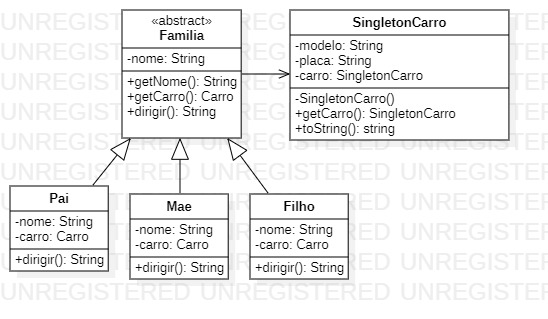
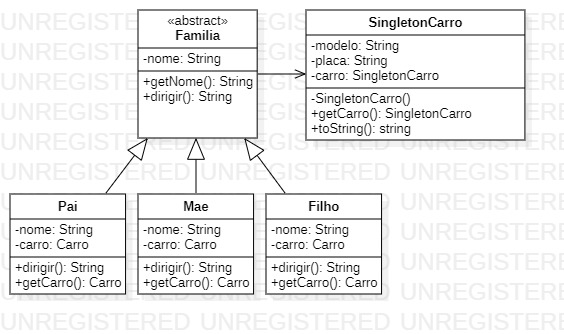
Creating class and relationship

Changed region(s): [[0.0, 0.0, 0.9307, 0.9028]]

diff --git a/Creational Patterns/Singleton/Singleton/src/designpatterns/singleton/SingletonCarro.java b/Creational Patterns/Singleton/Singleton/src/designpatterns/singleton/SingletonCarro.java
@@ -1,0 +1,18 @@
+package designpatterns.singleton;
+
+public class SingletonCarro {
+
+    private String modelo;
+    private String placa;
+    private static SingletonCarro carro;
+
+    private SingletonCarro(String modelo, String placa) {
+        this.modelo = modelo;
+        this.placa = placa;
+    }
+
+    public static SingletonCarro getCarro(){
+        if(carro == null) return new SingletonCarro("HB20s", "JKL0305");
+        return carro;
+    }
+}

diff --git a/Creational Patterns/Singleton/Singleton/src/designpatterns/Main.java b/Creational Patterns/Singleton/Singleton/src/designpatterns/Main.java
@@ -1,7 +1,15 @@
 package designpatterns;
 
+import designpatterns.singleton.Filho;
+import designpatterns.singleton.Mae;
+import designpatterns.singleton.Pai;
+
 public class Main {
     public static void main(String[] args) {
-        System.out.println("Hello world!");
+        Pai pai = new Pai("Roberto");
+        Mae mae = new Mae("Marta");
+        Filho filho = new Filho("Roberto Junior");
+
+        pai.setNome();
     }
 }

diff --git a/Creational Patterns/Singleton/Singleton/src/designpatterns/singleton/Familia.java b/Creational Patterns/Singleton/Singleton/src/designpatterns/singleton/Familia.java
@@ -1,0 +1,16 @@
+package designpatterns.singleton;
+
+public abstract class Familia {
+
+    private String nome;
+
+    public String getNome() {
+        return nome;
+    }
+
+    public void setNome(String nome) {
+        this.nome = nome;
+    }
+
+    public abstract String dirigir();
+}
